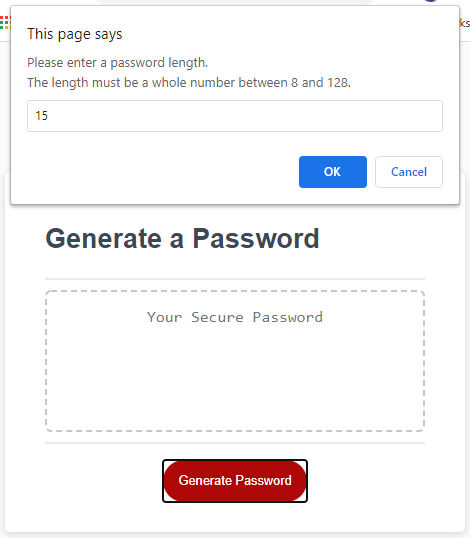
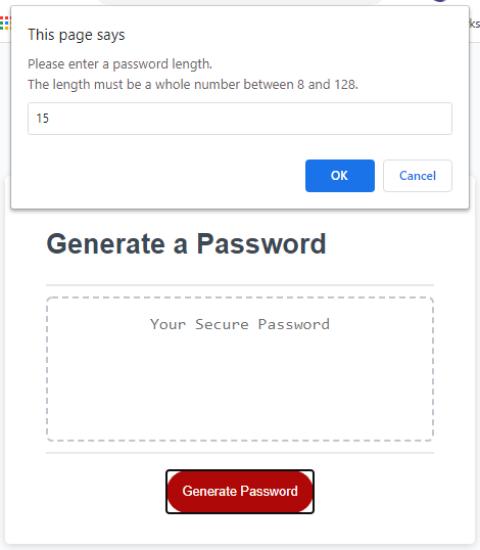
update image sizes

diff --git a/README.md b/README.md
@@ -43,6 +43,6 @@ JavaScript.js code: (https://github.com/ed-sivick/3-password_generator/blob/mast
 style.css code: (https://github.com/ed-sivick/3-password_generator/blob/master/Develop/style.css  
 
 **Application Image Examples:** Hover the mouse over each image for a brief description. 
-  <img src="Develop/images/passwordgen1.png" width="350" align="left" title="image of password length entry prompt" alt="image of password length entry prompt">
+  <img src="Develop/images/passwordgen1.png" height="550" align="left" title="image of password length entry prompt" alt="image of password length entry prompt">
   
-  <img src="Develop/images/passwordgen2.png" width="350" align="right" title="image of generated password" alt="image of generated password">
+  <img src="Develop/images/passwordgen2.png" height="550" align="right" title="image of generated password" alt="image of generated password">
